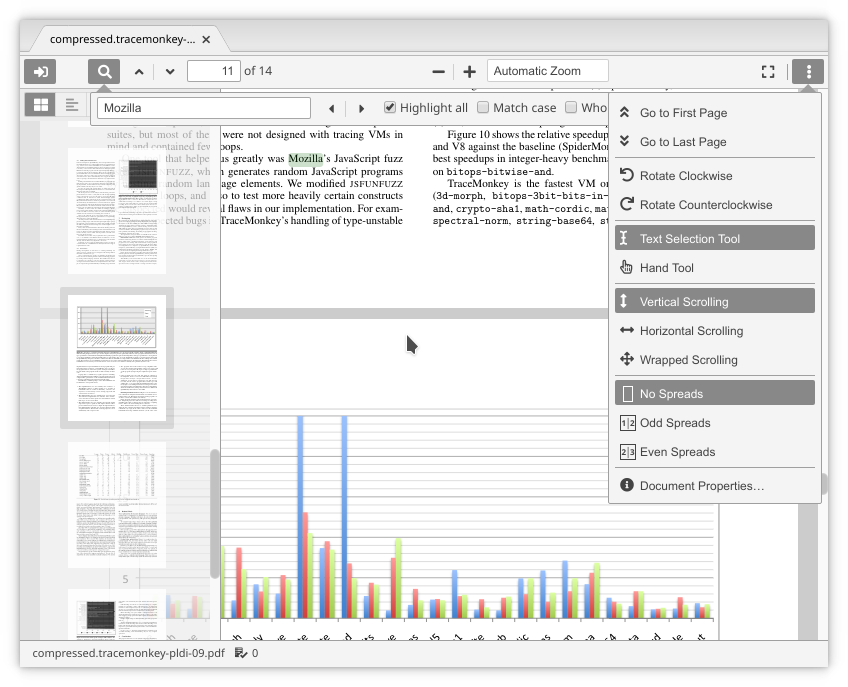
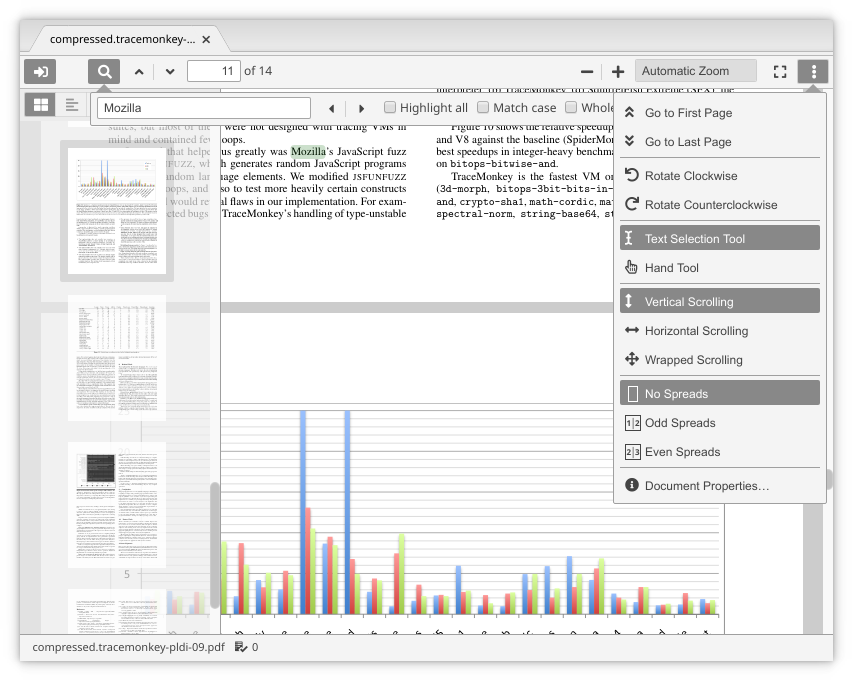
Handle interfering keyboard shortcuts; minor fixes

Changed region(s): [[0.0307, 0.0308, 0.9811, 0.9559], [0.4599, 0.4934, 0.4906, 0.5242]]

diff --git a/lib/pdfjs-viewer-view.js b/lib/pdfjs-viewer-view.js
@@ -55,9 +55,18 @@ view = this //HACK
     // make external links functional
     this.element.contentWindow.addEventListener("click",
       (event) => this.handleLink(event))
+    
+    // control keyboard shortcuts  
+    this.element.contentWindow.addEventListener("keydown",
+      (event) => this.handleKey(event), true)
+    
+    // control printing
+    //   Ctrl-P doesn't even reach the keydown event listener.
+    // Instead, we have to override the print function:
+    view.element.contentWindow.print = () => this.handlePrint()
   }
   
-  
+        
   // compile the viewer-specific LESS into CSS
   // and inject it into the viewer iframe's style element
   injectStyle() {
@@ -66,19 +75,6 @@ view = this //HACK
       'pdfjs', 'web', 'viewer.less')
     const css = atom.themes.loadLessStylesheet(lessFile)
     this.element.contentDocument.getElementById('viewer-less').innerText = css
-  }
-  
-  
-  // handle changes to PDF file
-  handleFilechange(eventType) {
-    if (eventType == 'change') {
-      this.reloadPdf()
-    } else {
-      // don't continue watching a file that has been renamed
-      this.fswatcher.close()
-      this.fswatcher = null
-    }
-    
   }
   
   
@@ -96,6 +92,56 @@ view = this //HACK
   }
 
 
+  // handle keypresses
+  //   To suppress keypresses being handled by the PDF.js viewer,
+  // two things are necessary:
+  // 1) above: ….contentWindow.addEventListener("keydown", …, true)
+  // 2) here: event.stopPropagation()
+  // This lets Atom's keypress handler take over.
+  //   To instead suppress Atom's handling, use event.preventDefault().
+  handleKey(event) {
+    console.log(event.keyCode)
+    switch (event.keyCode) {
+      case 83:      // suppress (Shift-)Ctrl-S → PDF.js Save
+        if (event.ctrlKey) {
+          event.stopPropagation()
+        }
+        break;
+      case 115:
+        if (!event.ctrlKey && !event.shiftKey) {
+          event.preventDefault()
+        }
+        break;
+    }  
+  } 
+  
+  
+  // handle print requests
+  handlePrint() {
+    console.log('PdfjsViewerView.handlePrint')
+    // For now, instead of printing, we simulate the effect Ctrl-P would have
+    // had on the HTML element containing the PDF viewer.
+    const container = this.element.parentElement
+    //   get Atom command from keystroke
+    const command = atom.keymaps.findKeyBindings(
+      {keystrokes: 'ctrl-p', target: container})[0].command
+    // dispatch Atom command
+    atom.commands.dispatch(container, command)
+  }
+
+
+  // handle changes to PDF file
+  handleFilechange(eventType) {
+    if (eventType == 'change') {
+      this.reloadPdf()
+    } else {
+      // don't continue watching a file that has been renamed
+      this.fswatcher.close()
+      this.fswatcher = null
+    }
+  }
+  
+  
   // reload PDF file
   reloadPdf() {
     const window = this.element.contentWindow

diff --git a/pdfjs/web/viewer.less b/pdfjs/web/viewer.less
@@ -789,7 +789,10 @@ html[dir='rtl'] #toolbarContainer, .findbar, .secondaryToolbar {
   //             0 1px 1px hsla(0,0%,0%,.1);
 }
 
-#toolbarViewer {
+#toolbarViewer,
+#toolbarViewerLeft,
+#toolbarViewerRight,
+#toolbarViewerMiddle {
   height: 32px;
 }
 

diff --git a/README.md b/README.md
@@ -16,15 +16,15 @@ pdfjs-viewer has the same purpose as the [pdf-view](https://atom.io/packages/pdf
     -   text selection and copy, and
     -   annotations.
 
--   Other than pdf-view-plus, the viewer has been reskinned in compliance with the [request](https://mozilla.github.io/pdf.js/getting_started/) of PDF.js developers not to use it unmodified. UI elements blend in with the current Atom theme. Some elements have been removed because they serve no function within Atom, and some keyboard shortcuts have been removed because they interfere with Atom's. Almost all icons have been replaced with alternatives from [Font Awesome](https://fontawesome.com/).
+-   Other than pdf-view-plus, the viewer has been reskinned in compliance with the [request](https://mozilla.github.io/pdf.js/getting_started/) of PDF.js developers not to use it unmodified. UI elements blend in with the current Atom theme. Almost all icons have been replaced with alternatives from [Font Awesome](https://fontawesome.com/).
+
+    Moreover, links in the PDF have been made functional. Some UI elements and associated keyboard shortcuts have been removed because they serve no purpose within Atom. 
 
 PDF files can be opened from the Atom user interface, e.g. from the project tree view, or programmatically through `atom.workspace.open()`. The package watches for file changes and reloads the PDF. Viewer panes are persistent across Atom runs.
 
-
-
-internal keyboard shorcuts
-
+Install from Atom's Settings/Install dialog (search for `pdfjs-viewer`) or via `apm install pdfjs-viewer`.
 
 ---
+
 
 This software is copyrighted © 2020 by Carsten Allefeld and released under the terms of the MIT license, except for the included modified copy of the [PDF.js](https://github.com/mozilla/pdf.js) library and viewer (pre-built release [pdfjs-2.3.200-dist](https://github.com/mozilla/pdfjs-dist/releases/tag/v2.3.200)), © Mozilla and individual contributors and released under the terms of the Apache-2.0 license.

diff --git a/TODO.md b/TODO.md
@@ -1,9 +1,5 @@
 # todo
 
--   disable interfering keyboard shortcuts (^S, ...) or keep them from Atom.  
-    <https://github.com/mozilla/pdf.js/wiki/Frequently-Asked-Questions#faq-shortcuts>  
-    make optional?
-
 -   fix weird problem with moving pane split  
     maybe mouse events are lost in iframe?
     
@@ -13,7 +9,7 @@
     instead of `shell.openExternal`
     or check whether browser-package is installed?
     
--   support for printing, but properly through system  
+-   support for printing, but properly through system.  
     why garble a perfectly fine PDF through browser printing?
 
--   re-enable and style support for Retina displays in style sheet
+-   re-enable support for Retina displays in style sheet
